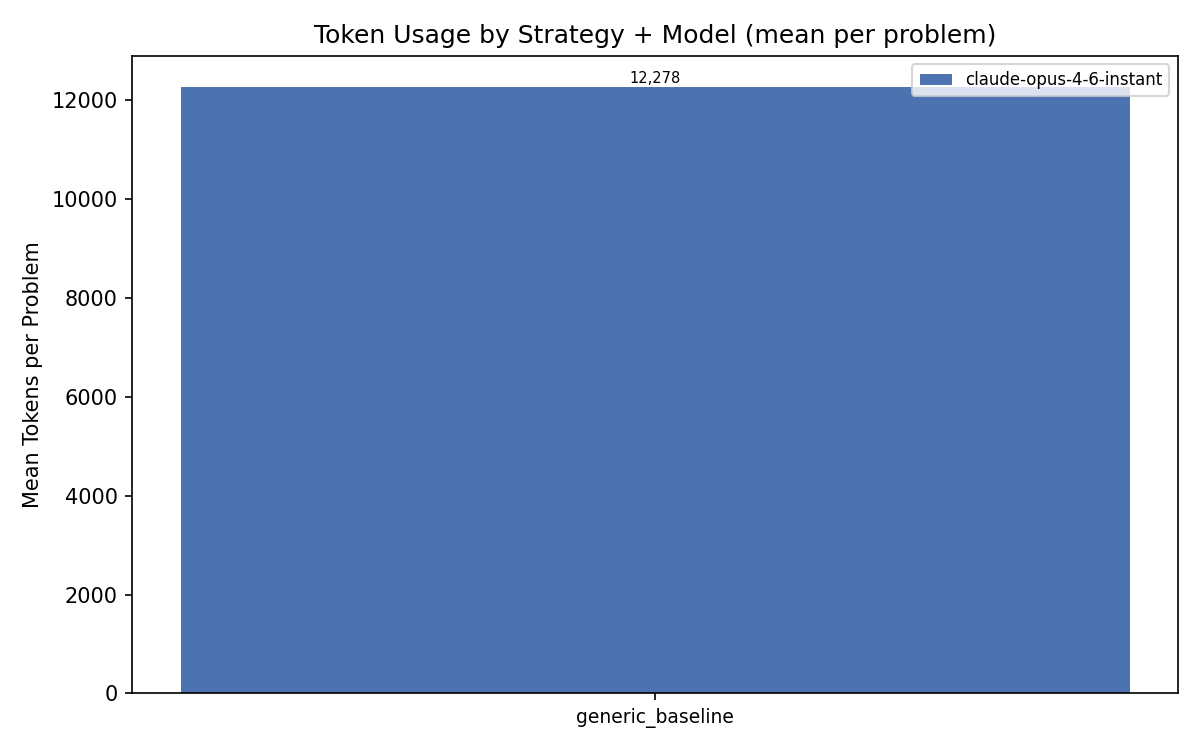
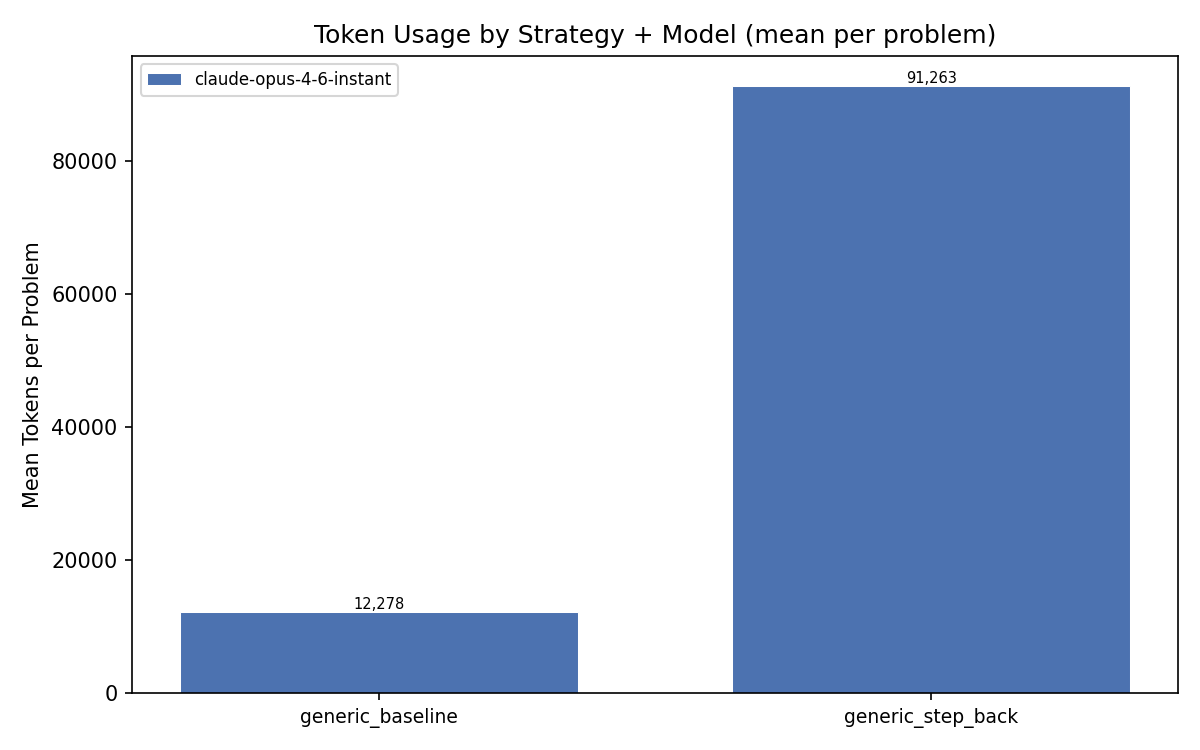
Gitignore docs/* and retroactive_fix*.py; refresh rosetta-hard plots; add par1/par2 accuracy plots
- .gitignore: exclude docs/* (local notes), retroactive_fix*.py helpers,
  and intermediate dataset_sketches/bongard_pilot*.csv artifacts
- results/rosetta-hard: refresh figures + summary tables
- results/minute-cryptic-par1, par2: add accuracy-by-model plots

diff --git a/results/rosetta-hard/per_problem_table.tex b/results/rosetta-hard/per_problem_table.tex
@@ -2,62 +2,62 @@
 \centering
 \caption{Per-problem results (\cmark = correct, \xmark = incorrect).}
 \label{tab:per-problem}
-\begin{tabular}{lc}
+\begin{tabular}{lcc}
 \toprule
-Problem & generic\_baseline claude-opus-4-6-instant \\
+Problem & generic\_baseline claude-opus-4-6-instant & generic\_step\_back claude-opus-4-6-instant \\
 \midrule
-1 & \xmark \\
-2 & \xmark \\
-3 & \xmark \\
-4 & \xmark \\
-5 & \xmark \\
-6 & \xmark \\
-7 & \xmark \\
-8 & \xmark \\
-9 & \cmark \\
-10 & \cmark \\
-11 & \xmark \\
-12 & \cmark \\
-13 & \cmark \\
-14 & \xmark \\
-15 & \xmark \\
-16 & \cmark \\
-17 & \cmark \\
-18 & \xmark \\
-19 & \xmark \\
-20 & \cmark \\
-21 & \xmark \\
-22 & \xmark \\
-23 & \xmark \\
-24 & \cmark \\
-25 & \xmark \\
-26 & \xmark \\
-27 & \xmark \\
-28 & \xmark \\
-29 & \cmark \\
-30 & \xmark \\
-31 & \xmark \\
-32 & \xmark \\
-33 & \xmark \\
-34 & \cmark \\
-35 & \cmark \\
-36 & \xmark \\
-37 & \xmark \\
-38 & \cmark \\
-39 & \xmark \\
-40 & \xmark \\
-41 & \cmark \\
-42 & \xmark \\
-43 & \cmark \\
-44 & \cmark \\
-45 & \xmark \\
-46 & \xmark \\
-47 & \xmark \\
-48 & \xmark \\
-49 & \xmark \\
-50 & \cmark \\
+1 & \xmark & \cmark \\
+2 & \xmark & \cmark \\
+3 & \xmark & \cmark \\
+4 & \xmark & \cmark \\
+5 & \xmark & \xmark \\
+6 & \xmark & \cmark \\
+7 & \xmark & \cmark \\
+8 & \xmark & \cmark \\
+9 & \cmark & \cmark \\
+10 & \cmark & \cmark \\
+11 & \xmark & \cmark \\
+12 & \cmark & \cmark \\
+13 & \cmark & \cmark \\
+14 & \xmark & \cmark \\
+15 & \xmark & \cmark \\
+16 & \cmark & \cmark \\
+17 & \cmark & \cmark \\
+18 & \xmark & \cmark \\
+19 & \xmark & \cmark \\
+20 & \cmark & \cmark \\
+21 & \xmark & \cmark \\
+22 & \xmark & \cmark \\
+23 & \xmark & \cmark \\
+24 & \cmark & \cmark \\
+25 & \xmark & \cmark \\
+26 & \xmark & \cmark \\
+27 & \xmark & \cmark \\
+28 & \xmark & \xmark \\
+29 & \cmark & \cmark \\
+30 & \xmark & \cmark \\
+31 & \xmark & \cmark \\
+32 & \xmark & \cmark \\
+33 & \xmark & \xmark \\
+34 & \cmark & \xmark \\
+35 & \cmark & \cmark \\
+36 & \xmark & \xmark \\
+37 & \xmark & \xmark \\
+38 & \cmark & \cmark \\
+39 & \xmark & \cmark \\
+40 & \xmark & \cmark \\
+41 & \cmark & \cmark \\
+42 & \xmark & \cmark \\
+43 & \cmark & \cmark \\
+44 & \cmark & \cmark \\
+45 & \xmark & \cmark \\
+46 & \xmark & \cmark \\
+47 & \xmark & \xmark \\
+48 & \xmark & -- \\
+49 & \xmark & -- \\
+50 & \cmark & -- \\
 \midrule
-\textbf{Total} & \textbf{16/50} \\
+\textbf{Total} & \textbf{16/50} & \textbf{40/47} \\
 \bottomrule
 \end{tabular}
 \end{table}

diff --git a/results/rosetta-hard/summary_table.tex b/results/rosetta-hard/summary_table.tex
@@ -7,6 +7,8 @@
 Strategy & Model & Accuracy & Correct & Mean Tok/Prob & LLM Calls & Avg Steps \\
 \midrule
   generic\_baseline & claude-opus-4-6-instant & 32.0% & 16/50 & 12,278 & 150 & 1.0 \\
+\addlinespace
+  generic\_step\_back & claude-opus-4-6-instant & 85.1% & 40/47 & 91,263 & 367 & 3.3 \\
 \bottomrule
 \end{tabular}
 \end{table}
